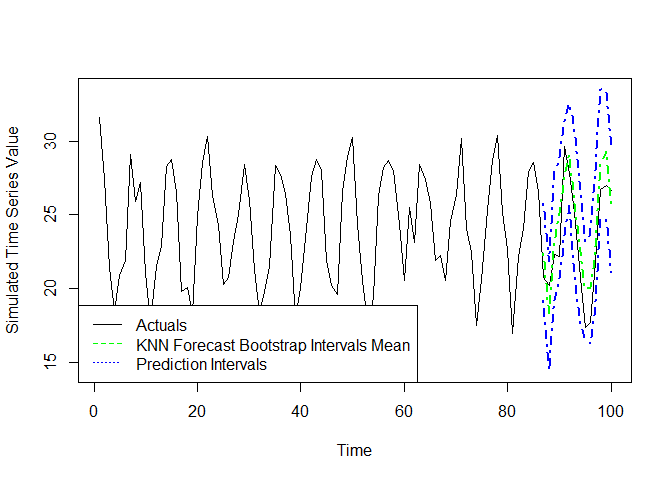
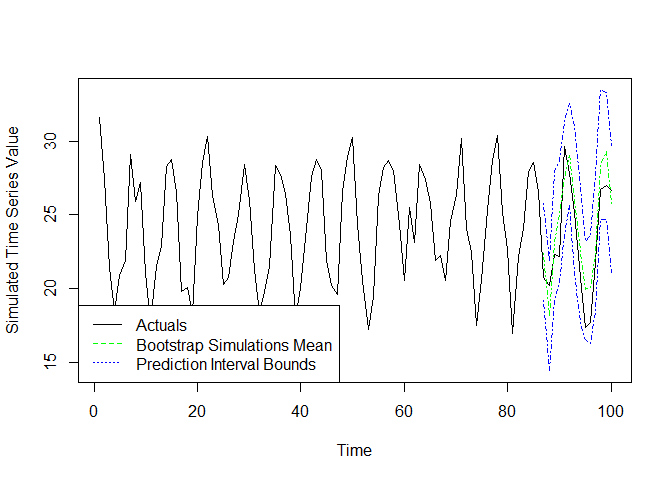
README prediction intervals revisions

diff --git a/README.md b/README.md
@@ -301,7 +301,7 @@ legend('bottomleft', legend = c('Actuals', 'KNN Forecast Tuned')
 
 <img src="man/figures/README-tuned-knn-forecast-example-1.png" width="100%" />
 
-## Prediction Intervals in 
+## Forecasting with Prediction Intervals
 
 The methodology used to produce forecasts with prediction intervals in
 this package is based on the description of “Prediction intervals from
@@ -350,19 +350,18 @@ ub <- interval.forecast$ub
 mean.boot <- interval.forecast$mean
   
 
-ts.plot(ex.series, ylab="Simulated Time Series Value"
-        , lwd = 1.8
+ts.plot(ex.series, ylab = "Simulated Time Series Value"
         , ylim = c(min(lb), max(ub)))
-lines(x = val.index, y = mean.boot , col='green', lty=4, lwd = 2.5)
-lines(x = val.index, y = lb, col='blue',lty=4, lwd = 2.5)
-lines(x = val.index, y = ub, col='blue',lty=4 , lwd = 2.5)
+lines(x = val.index, y = mean.boot , col = 'green', lty = 4)
+lines(x = val.index, y = lb, col = 'blue', lty = 4)
+lines(x = val.index, y = ub, col = 'blue', lty = 4)
   
 legend('bottomleft'
-      , legend=c('Actuals'
-                 , 'KNN Forecast Bootstrap Intervals Mean'
-                 , 'Prediction Intervals')
-      , col=c('black', 'green', 'blue')
-      , lty=c(1, 2, 3, 4))
+      , legend = c('Actuals'
+                 , 'Bootstrap Simulations Mean'
+                 , 'Prediction Interval Bounds')
+      , col = c('black', 'green', 'blue')
+      , lty = c(1, 2, 3, 4))
 ```
 
 <img src="man/figures/README-bootstrap-interval-example-1.png" width="100%" />
